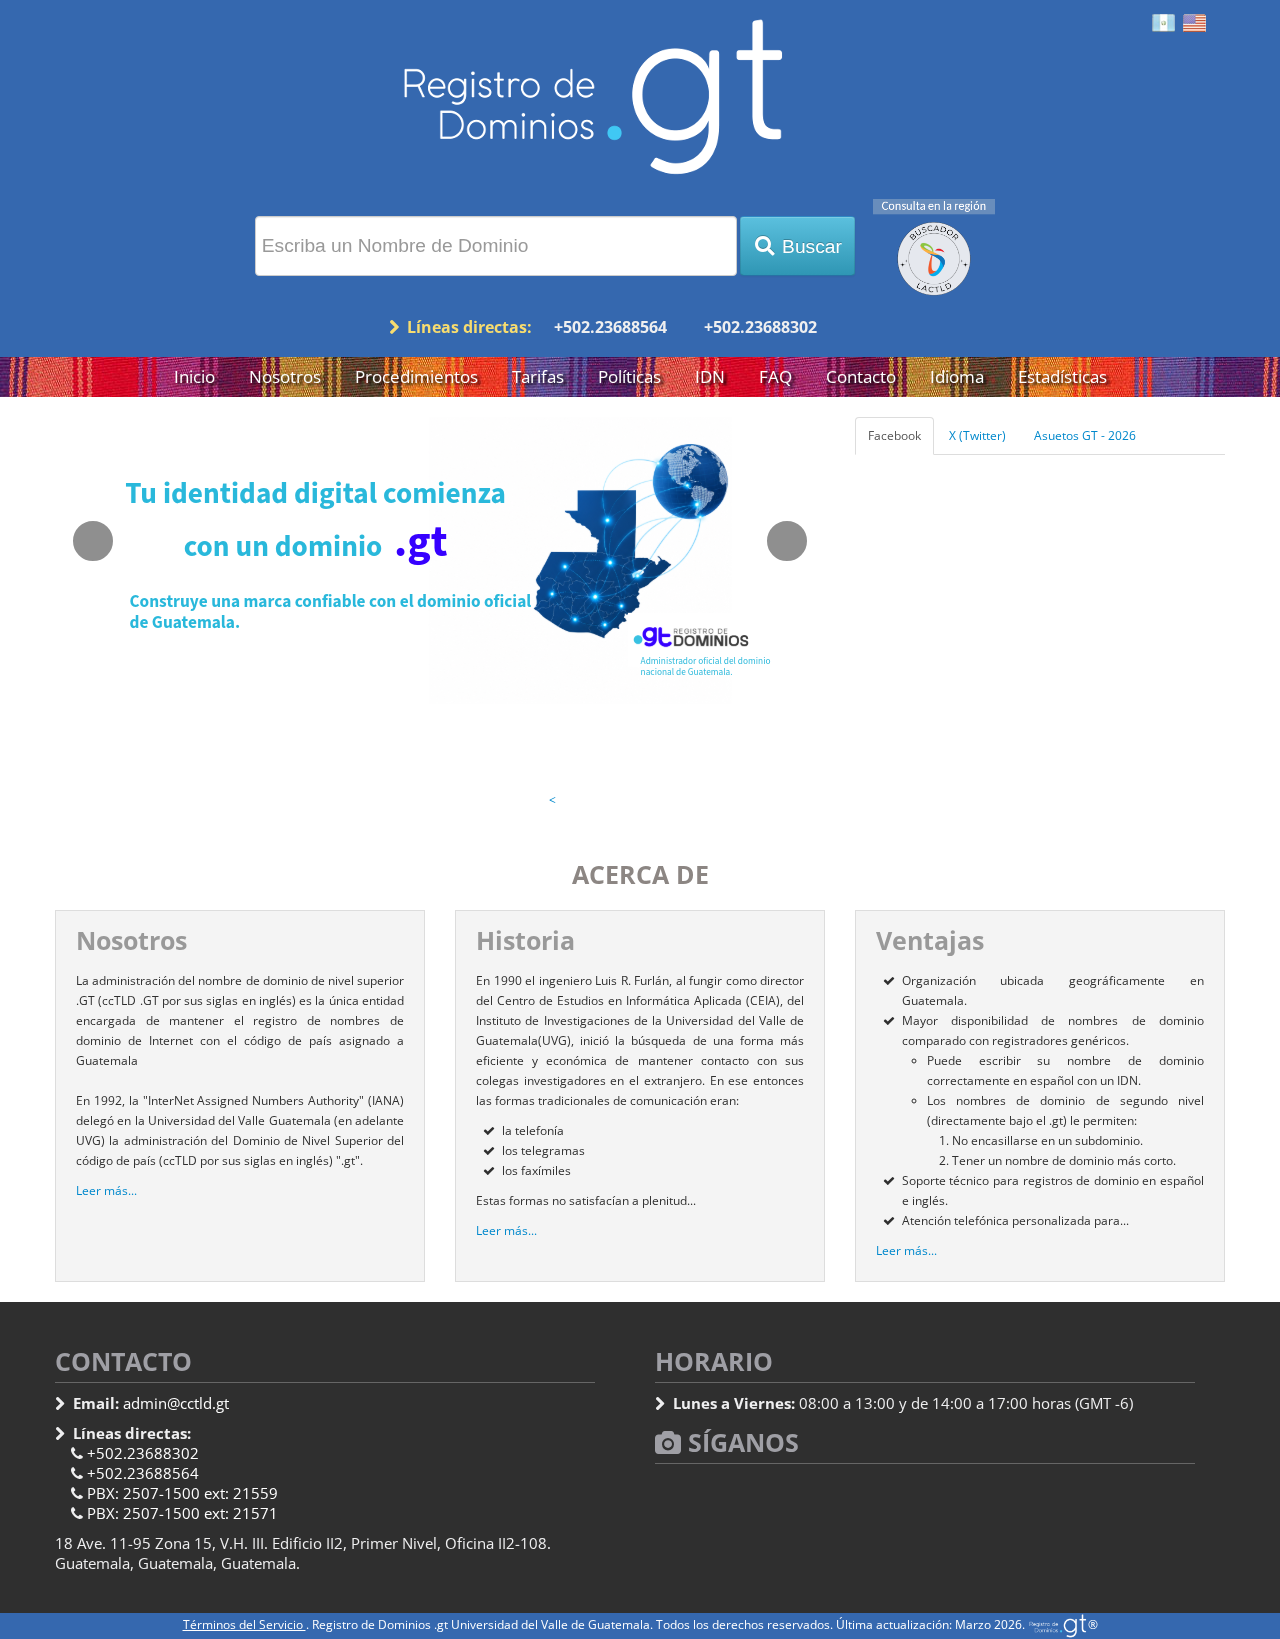
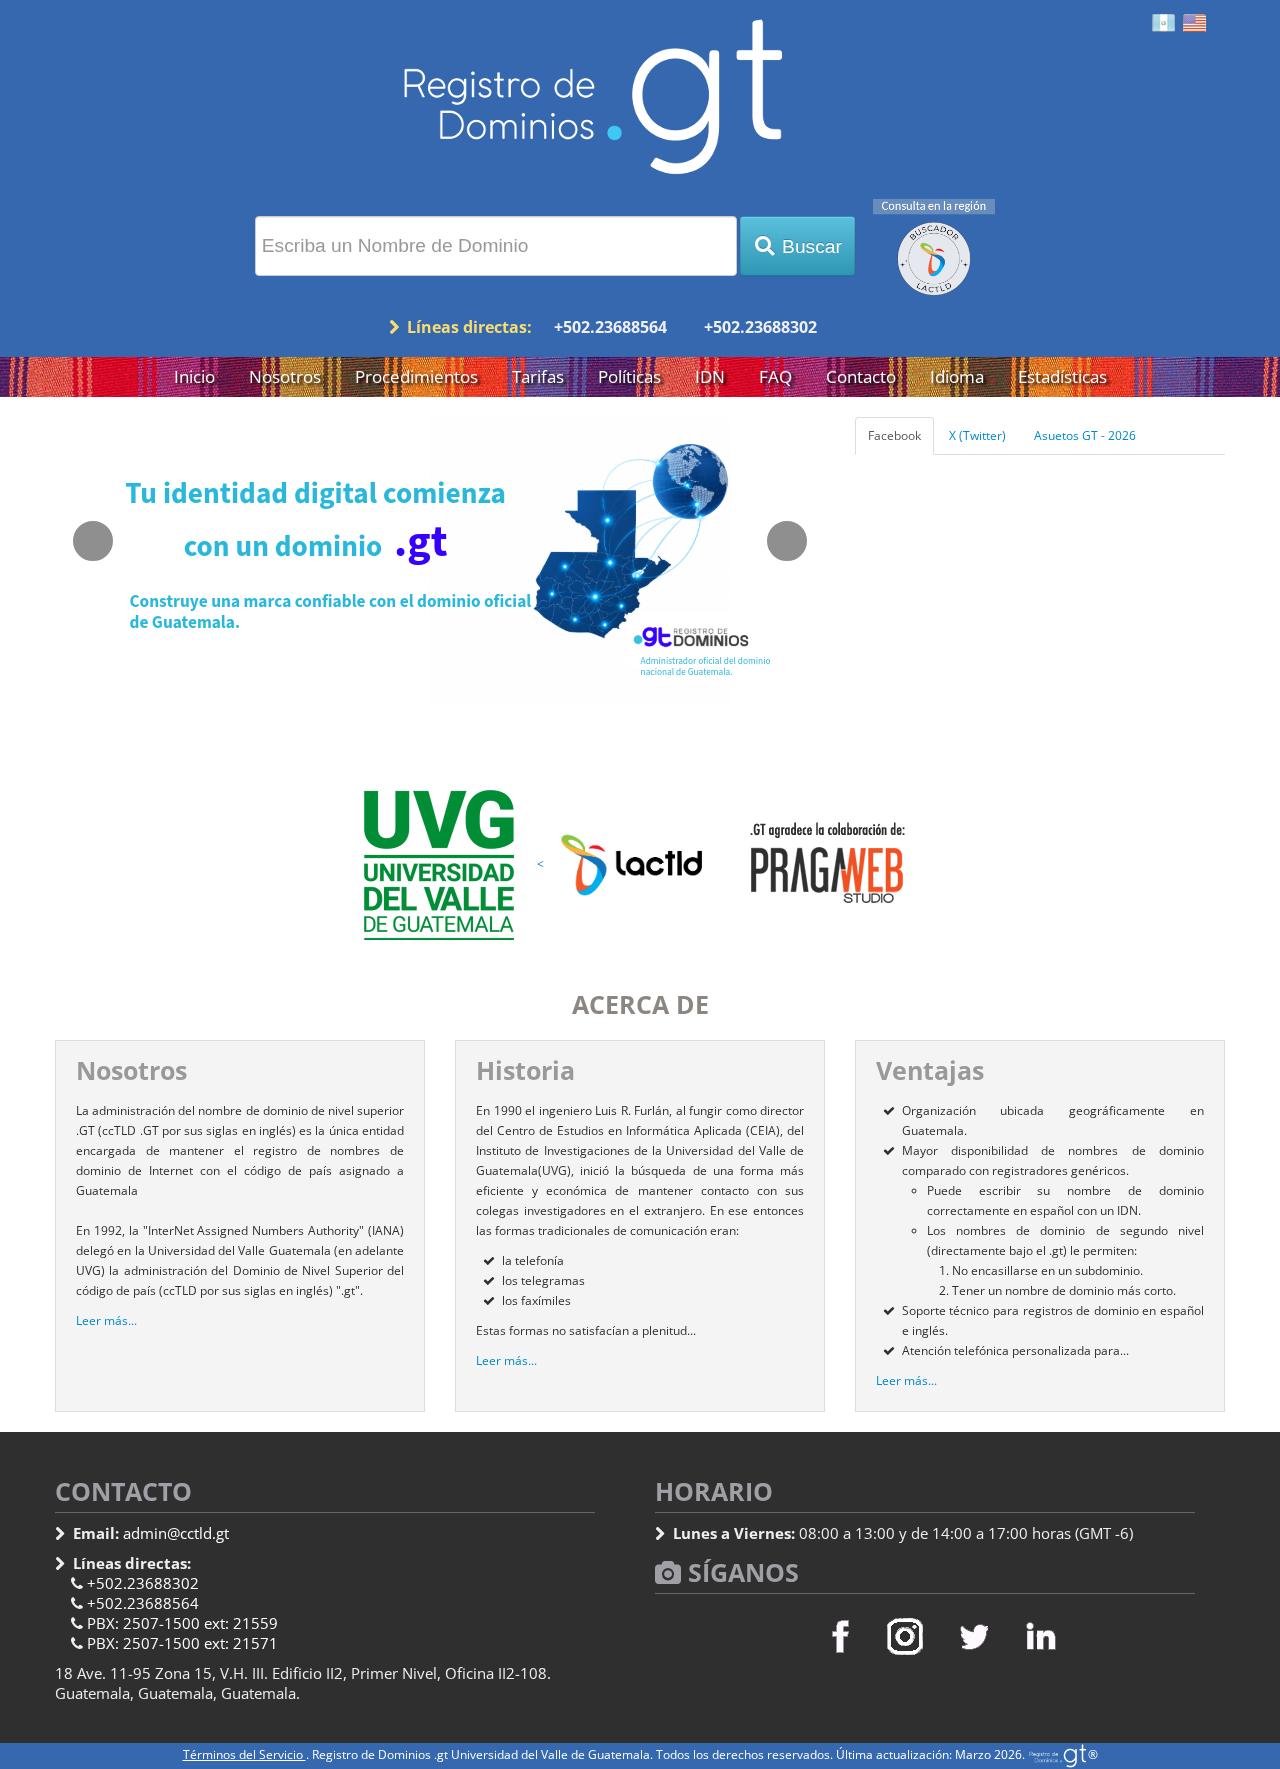
Add RF-1.1 test cases TC-02 and TC-03 with test case documentation

diff --git a/tests/pruebas.spec.js b/tests/pruebas.spec.js
@@ -33,3 +33,84 @@ test("TC-01 (RF-1.1) - Mostrar información principal", async ({ page }) => {
     fullPage: true,
   });
 });
+
+test("TC-02 (RF-1.1) - Verificar el menú de navegación y los datos de contacto del sitio principal", async ({ page }) => {
+  // Precondiciones:
+  // - Tener conexión a Internet.
+  // - No es necesario iniciar sesión.
+  // Pasos realizados:
+  // 1. Abrir https://gt.nic.gt
+  // 2. Esperar que cargue la página.
+  // 3. Verificar que exista el menú de navegación principal (#mainNav).
+  // 4. Verificar que el menú incluya las secciones informativas del servicio.
+  // 5. Verificar que se muestren las líneas telefónicas de contacto.
+  // 6. Verificar que exista el carrusel informativo de la portada.
+  // Resultado esperado:
+  // - La portada expone la navegación y los datos de contacto del servicio.
+  await page.goto("https://gt.nic.gt");
+  await page.waitForLoadState("domcontentloaded");
+
+  const menu = page.locator("#mainNav");
+  await expect(menu).toBeVisible();
+
+  // Secciones informativas que debe ofrecer el sitio principal.
+  for (const seccion of ["Inicio", "Procedimientos", "Tarifas", "FAQ", "Contacto"]) {
+    await expect(menu.getByRole("link", { name: seccion, exact: true })).toBeVisible();
+  }
+
+  // Enlaces a las políticas del registro.
+  await expect(menu.locator('a[href="registration_policy.php"]')).toHaveCount(1);
+  await expect(menu.locator('a[href="dispute_policy.php"]')).toHaveCount(1);
+
+  // Datos de contacto visibles en la portada.
+  await expect(page.locator("body")).toContainText("+502.23688302");
+  await expect(page.locator("body")).toContainText("+502.23688564");
+
+  // Carrusel informativo de la portada.
+  await expect(page.locator("#carousel-example-generic")).toBeVisible();
+
+  await page.screenshot({
+    path: path.join("evidencias", "TC-02-navegacion-y-contacto.png"),
+    fullPage: true,
+  });
+});
+
+test("TC-03 (RF-1.1) - Verificar el buscador de dominios de la página principal", async ({ page }) => {
+  // Precondiciones:
+  // - Tener conexión a Internet.
+  // - No es necesario iniciar sesión.
+  // Pasos realizados:
+  // 1. Abrir https://gt.nic.gt
+  // 2. Verificar que el buscador de dominios esté visible en la portada.
+  // 3. Escribir "uvg" en el campo de búsqueda (#texto-search).
+  // 4. Enviar el formulario de búsqueda.
+  // 5. Verificar que se cargue la página de resultados.
+  // 6. Verificar que los resultados incluyan dominios .gt disponibles y registrados.
+  // Resultado esperado:
+  // - El servicio principal de consulta de dominios está accesible desde la portada y devuelve resultados.
+  await page.goto("https://gt.nic.gt");
+  await page.waitForLoadState("domcontentloaded");
+
+  const campoBusqueda = page.locator("#texto-search");
+  await expect(campoBusqueda).toBeVisible();
+  await expect(campoBusqueda).toHaveAttribute("placeholder", /Nombre de Dominio/i);
+
+  await campoBusqueda.fill("uvg");
+  await page.locator('form.form-search button[type="submit"]').click();
+
+  await page.waitForURL(/results\.php/);
+  await page.waitForLoadState("domcontentloaded");
+
+  // La página de resultados clasifica los dominios consultados.
+  await expect(page.locator("body")).toContainText("Registrados");
+  await expect(page.locator("body")).toContainText("uvg.edu.gt");
+  await expect(page.locator("body")).toContainText("uvg.com.gt");
+
+  // El menú de navegación se conserva en la página de resultados.
+  await expect(page.locator("#mainNav")).toBeVisible();
+
+  await page.screenshot({
+    path: path.join("evidencias", "TC-03-buscador-dominios.png"),
+    fullPage: true,
+  });
+});

diff --git a/docs/casos-de-prueba.md b/docs/casos-de-prueba.md
@@ -1,0 +1,159 @@
+# Casos de prueba
+
+---
+
+# RF-1.1 — Mostrar información principal
+
+**Requisito funcional:** El sistema debe mostrar la información principal del servicio.
+
+**Archivo de pruebas:** `tests/pruebas.spec.js`
+
+**Comando de ejecución:**
+
+```bash
+npx playwright test tests/pruebas.spec.js --project=chromium
+```
+
+---
+
+## TC-01
+
+| Campo | Detalle |
+| --- | --- |
+| **ID de prueba** | TC-01 |
+| **Nombre** | Marco Alejandro Díaz Castañeda |
+| **Requisito relacionado** | RF-1.1 |
+| **Herramienta / método** | Navegar por medio de browser integrado con Playwright |
+| **Precondiciones** | Tener conexión a Internet.<br>No es necesario iniciar sesión. |
+| **Pasos realizados** | 1. Abrir https://gt.nic.gt<br>2. Esperar que cargue la página.<br>3. Verificar que exista el encabezado principal.<br>4. Verificar que exista el texto descriptivo.<br>5. Verificar que la página no esté vacía. |
+| **Resultado esperado** | La información principal del servicio aparece correctamente. |
+| **Resultado obtenido** | Se pudo encontrar toda la página principal: el encabezado principal es visible, el cuerpo contiene el texto "Dominios" y existe al menos un enlace visible. |
+| **Evidencia** | `evidencias/TC-01-informacion-principal.png` |
+
+![TC-01](../evidencias/TC-01-informacion-principal.png)
+
+**Observaciones:** el sitio https://gt.nic.gt presenta un certificado cuyo nombre común no coincide con el dominio (`net::ERR_CERT_COMMON_NAME_INVALID`), por lo que la prueba se ejecuta con `ignoreHTTPSErrors: true`. Además, el archivo originalmente se llamaba `tests/pruebas.js` y Playwright no lo detectaba, porque el patrón por defecto de descubrimiento es `**/*.@(spec|test).[jt]s`; se renombró a `tests/pruebas.spec.js`.
+
+---
+
+## TC-02
+
+| Campo | Detalle |
+| --- | --- |
+| **ID de prueba** | TC-02 |
+| **Nombre** | Marco Alejandro Díaz Castañeda |
+| **Requisito relacionado** | RF-1.1 |
+| **Herramienta / método** | Navegar por medio de browser integrado con Playwright |
+| **Precondiciones** | Tener conexión a Internet.<br>No es necesario iniciar sesión. |
+| **Pasos realizados** | 1. Abrir https://gt.nic.gt<br>2. Esperar que cargue la página.<br>3. Verificar que exista el menú de navegación principal.<br>4. Verificar que el menú incluya las secciones informativas del servicio (Inicio, Procedimientos, Tarifas, FAQ, Contacto) y los enlaces a las políticas de registro y de controversias.<br>5. Verificar que se muestren las líneas telefónicas de contacto.<br>6. Verificar que exista el carrusel informativo de la portada. |
+| **Resultado esperado** | La portada expone la navegación y los datos de contacto del servicio. |
+| **Resultado obtenido** | El menú principal se mostró completo con las cinco secciones informativas y los enlaces a ambas políticas; las líneas +502.23688302 y +502.23688564 aparecen en la página y el carrusel informativo es visible. |
+| **Evidencia** | `evidencias/TC-02-navegacion-y-contacto.png` |
+
+![TC-02](../evidencias/TC-02-navegacion-y-contacto.png)
+
+---
+
+## TC-03
+
+| Campo | Detalle |
+| --- | --- |
+| **ID de prueba** | TC-03 |
+| **Nombre** | Marco Alejandro Díaz Castañeda |
+| **Requisito relacionado** | RF-1.1 |
+| **Herramienta / método** | Navegar por medio de browser integrado con Playwright |
+| **Precondiciones** | Tener conexión a Internet.<br>No es necesario iniciar sesión. |
+| **Pasos realizados** | 1. Abrir https://gt.nic.gt<br>2. Verificar que el buscador de dominios esté visible en la portada.<br>3. Escribir "uvg" en el campo de búsqueda.<br>4. Enviar el formulario de búsqueda.<br>5. Verificar que se cargue la página de resultados.<br>6. Verificar que los resultados incluyan dominios .gt disponibles y registrados.<br>7. Verificar que el menú de navegación se conserve en la página de resultados. |
+| **Resultado esperado** | El servicio principal de consulta de dominios está accesible desde la portada y devuelve resultados. |
+| **Resultado obtenido** | El buscador se mostró con el marcador "Escriba un Nombre de Dominio"; al enviar "uvg" el sitio cargó `results.php` con la clasificación de dominios, incluyendo uvg.com.gt y uvg.edu.gt en el bloque "Registrados", y conservó el menú de navegación. |
+| **Evidencia** | `evidencias/TC-03-buscador-dominios.png` |
+
+![TC-03](../evidencias/TC-03-buscador-dominios.png)
+
+---
+
+# RF-2.2 — WHOIS de dominios registrados
+
+**Requisito funcional:** El sistema debe mostrar la información del WHOIS para dominios que ya se encuentran registrados.
+
+**Archivo de pruebas:** `tests/whois.spec.js`
+
+**Comando de ejecución:**
+
+```bash
+npx playwright test tests/whois.spec.js --project=chromium
+```
+
+---
+
+## TC-34
+
+| Campo | Detalle |
+| --- | --- |
+| **ID de prueba** | TC-34 |
+| **Nombre** | Marco Alejandro Díaz Castañeda |
+| **Requisito relacionado** | RF-2.2 |
+| **Herramienta / método** | Navegar por medio de browser integrado con Playwright |
+| **Precondiciones** | Tener conexión a Internet.<br>No es necesario iniciar sesión.<br>El dominio usac.edu.gt debe existir como dominio ya registrado. |
+| **Pasos realizados** | 1. Abrir https://dev2.registro.gt/<br>2. Escribir "usac" en el buscador de dominios y enviar el formulario.<br>3. Esperar que cargue la página de resultados.<br>4. Verificar que exista la sección "Dominios Registrados".<br>5. Verificar que usac.edu.gt aparezca marcado como "No disponible".<br>6. Presionar el enlace "Ver detalles..." que apunta al WHOIS del dominio.<br>7. Verificar que la vista WHOIS muestre nombre, estado y fecha de expiración. |
+| **Resultado esperado** | El sistema muestra la información WHOIS del dominio ya registrado. |
+| **Resultado obtenido** | El sistema mostró usac.edu.gt como no disponible y, al presionar "Ver detalles...", desplegó su ficha WHOIS con estado ACTIVO y fecha de expiración. |
+| **Evidencia** | `evidencias/TC-34-whois-desde-resultados.png` |
+
+![TC-34](../evidencias/TC-34-whois-desde-resultados.png)
+
+---
+
+## TC-35
+
+| Campo | Detalle |
+| --- | --- |
+| **ID de prueba** | TC-35 |
+| **Nombre** | Marco Alejandro Díaz Castañeda |
+| **Requisito relacionado** | RF-2.2 |
+| **Herramienta / método** | Navegar por medio de browser integrado con Playwright |
+| **Precondiciones** | Tener conexión a Internet.<br>No es necesario iniciar sesión.<br>El dominio usac.edu.gt debe existir como dominio ya registrado. |
+| **Pasos realizados** | 1. Abrir https://dev2.registro.gt/whois?q=usac.edu.gt<br>2. Esperar que cargue la página.<br>3. Verificar el bloque de identificación del dominio: nombre, estado, fecha de expiración y tarifa anual.<br>4. Verificar el bloque de organización titular: nombre, dirección y teléfono.<br>5. Verificar que existan al menos dos servidores de nombres.<br>6. Verificar que existan el contacto administrativo y el contacto técnico.<br>7. Verificar que no se muestre el mensaje de error. |
+| **Resultado esperado** | El WHOIS muestra todos los bloques de información del dominio registrado y no muestra el mensaje de error. |
+| **Resultado obtenido** | El WHOIS mostró usac.edu.gt como ACTIVO, con expiración 2028-Dec-01, tarifa $20.00 USD, titular Universidad de San Carlos de Guatemala, los servidores dns1 y dns2.usac.edu.gt, y los contactos administrativo y técnico completos. |
+| **Evidencia** | `evidencias/TC-35-whois-datos-completos.png` |
+
+![TC-35](../evidencias/TC-35-whois-datos-completos.png)
+
+---
+
+## TC-36
+
+| Campo | Detalle |
+| --- | --- |
+| **ID de prueba** | TC-36 |
+| **Nombre** | Marco Alejandro Díaz Castañeda |
+| **Requisito relacionado** | RF-2.2 |
+| **Herramienta / método** | Navegar por medio de browser integrado con Playwright |
+| **Precondiciones** | Tener conexión a Internet.<br>No es necesario iniciar sesión.<br>El dominio consultado no debe existir en el registro. |
+| **Pasos realizados** | 1. Abrir https://dev2.registro.gt/results/?q=uvg<br>2. Verificar que uvg.com.gt aparezca en la sección "Disponibles para registro".<br>3. Abrir el WHOIS de ese mismo dominio: https://dev2.registro.gt/whois?q=uvg.com.gt<br>4. Revisar la información devuelta por el WHOIS. |
+| **Resultado esperado** | El WHOIS solo debe mostrar información de dominios ya registrados, por lo que para un dominio disponible debería mostrarse un mensaje de error indicando que el dominio no está registrado. |
+| **Resultado obtenido** | **DEFECTO:** el WHOIS devolvió una ficha completa para un dominio disponible, con estado ACTIVO, titular "UVG S.A." y servidores ns1/ns2.uvg.com.gt. Los datos parecen generarse a partir del nombre consultado; al probar con dominioinexistente12345.gt se obtuvo el titular "DOMINIOINEXISTENTE12345 S.A.". |
+| **Evidencia** | `evidencias/TC-36-whois-dominio-no-registrado.png` |
+
+![TC-36](../evidencias/TC-36-whois-dominio-no-registrado.png)
+
+---
+
+## TC-37
+
+| Campo | Detalle |
+| --- | --- |
+| **ID de prueba** | TC-37 |
+| **Nombre** | Marco Alejandro Díaz Castañeda |
+| **Requisito relacionado** | RF-2.2 |
+| **Herramienta / método** | Navegar por medio de browser integrado con Playwright |
+| **Precondiciones** | Tener conexión a Internet.<br>No es necesario iniciar sesión.<br>El dominio uvg.edu.gt debe existir en el WHOIS como dominio registrado. |
+| **Pasos realizados** | 1. Abrir https://dev2.registro.gt/<br>2. Buscar "uvg" desde el buscador de dominios.<br>3. Localizar uvg.edu.gt en los resultados y revisar cómo lo clasifica el buscador.<br>4. Verificar que no se muestre la sección "Dominios Registrados" ni enlaces al WHOIS.<br>5. Consultar el WHOIS del mismo dominio: https://dev2.registro.gt/whois?q=uvg.edu.gt<br>6. Comparar el estado que reporta el buscador contra el que reporta el WHOIS. |
+| **Resultado esperado** | Si el WHOIS muestra uvg.edu.gt como dominio registrado, el buscador debería listarlo dentro de "Dominios Registrados" / "No disponible" y no ofrecer el flujo de solicitud. |
+| **Resultado obtenido** | **DEFECTO:** el buscador clasificó uvg.edu.gt como "Requiere Validación" y habilitó el botón "Solicitar", sin mostrar la sección "Dominios Registrados". El WHOIS del mismo dominio lo reportó ACTIVO, con titular "UVG S.A." y expiración 2027-Jan-03. Ambos módulos dan estados contradictorios. |
+| **Evidencia** | `evidencias/TC-37-buscador-uvg-requiere-validacion.png`<br>`evidencias/TC-37-whois-uvg-edu-gt-activo.png` |
+
+![TC-37 buscador](../evidencias/TC-37-buscador-uvg-requiere-validacion.png)
+
+![TC-37 WHOIS](../evidencias/TC-37-whois-uvg-edu-gt-activo.png)
